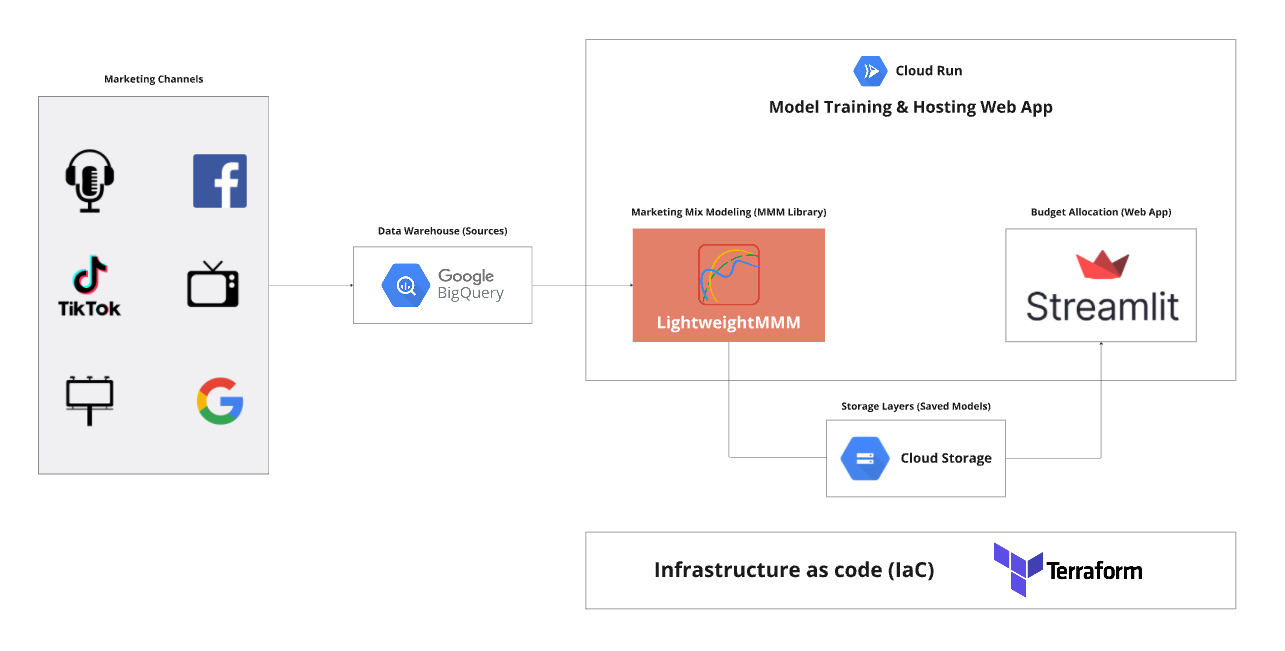
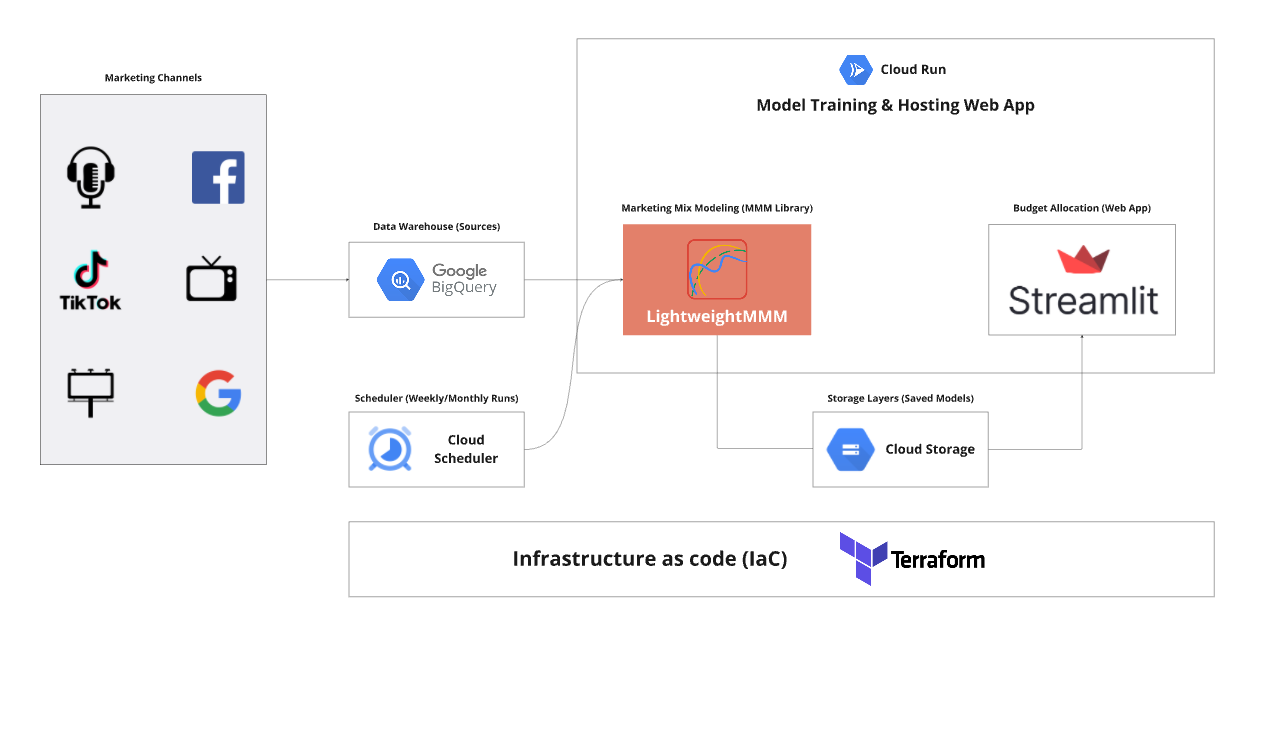
Initial commit: Budget Allocation MMM Project

diff --git a/README.md b/README.md
@@ -24,6 +24,7 @@ This project demonstrates the end-to-end workflow of a Marketing Mix Modeling (M
 - **Storage Layer (Google Cloud Storage):** Model and artifact storage
 - **Visualization & Budget Allocation (Streamlit):** Interactive web interface
 - **Infrastructure as Code (Terraform):** Automated deployment
+- **Cloud Scheduler:** Automated scheduling of model training jobs
 
 ## Features
 
@@ -32,7 +33,7 @@ This project demonstrates the end-to-end workflow of a Marketing Mix Modeling (M
 - ⚙ Configurable model structure
 - 📈 Interactive budget optimization
 - 🔄 Automated infrastructure deployment
-
+- ⏰ Automated model retraining with Cloud Scheduler
 
 ## Tech Stack
 
@@ -42,3 +43,13 @@ This project demonstrates the end-to-end workflow of a Marketing Mix Modeling (M
 - **Google Cloud Storage:** Model artifact and data storage
 - **Streamlit:** Interactive UI for budget allocation scenarios
 - **Terraform:** Infrastructure as code for consistent and reliable deployments
+- **Cloud Scheduler:** Cron job scheduling for automated model training
+
+## Scheduled Training
+
+The model training pipeline is automated using Cloud Scheduler:
+
+- **Frequency:** Weekly retraining on Sunday at 00:00 UTC
+- **Trigger:** HTTP POST request to Cloud Run training service
+- **Monitoring:** Integrated with Cloud Logging for job execution tracking
+- **Error Handling:** Automated alerts on training job failures
